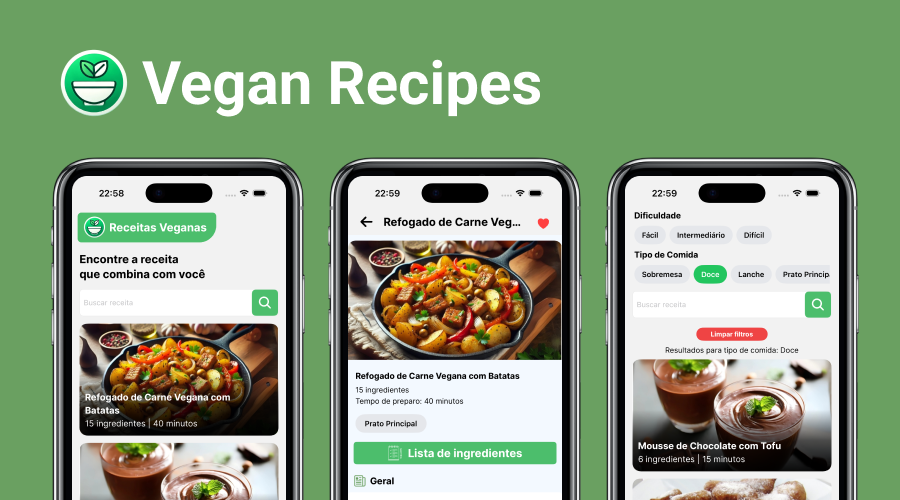
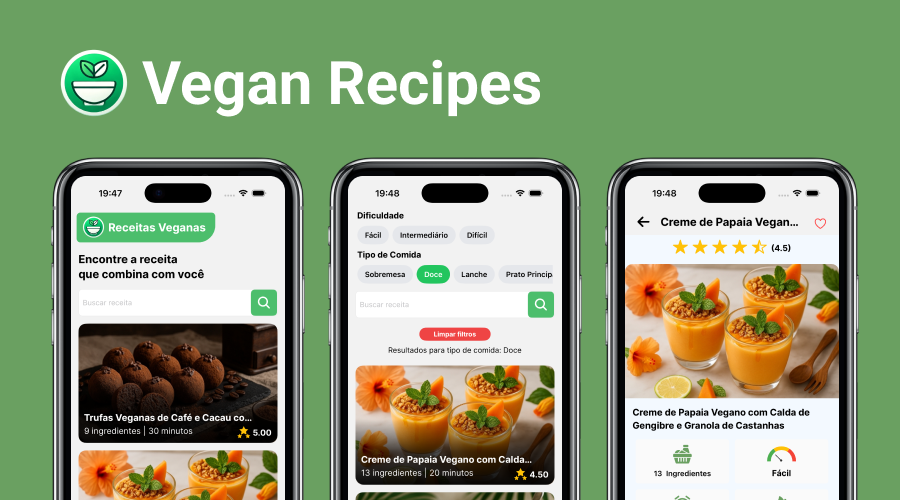
docs(readme): update README and .github assets
- Mark Rate and feedback feature as complete
- Update application screens image to reflect new UI design
- Revise features section to show Rate as finished

diff --git a/README.md b/README.md
@@ -26,7 +26,7 @@
 - [x] Mark recipes as favorites to save them for later
 - [x] Search recipes by name, difficulty, or category
 - [x] Access your saved favorites offline
-- [ ] Rate and provide feedback on recipes
+- [x] Rate and provide feedback on recipes
 
 ## Technologies
 
